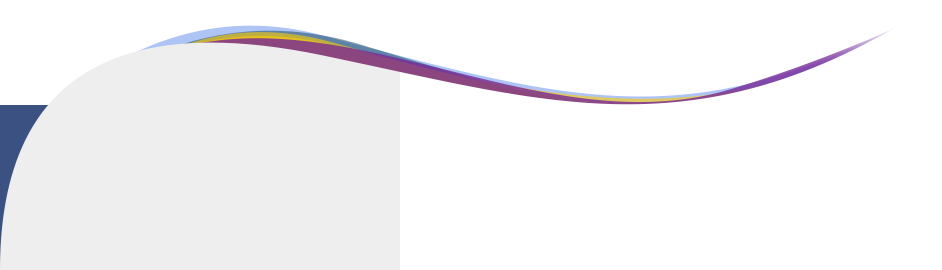
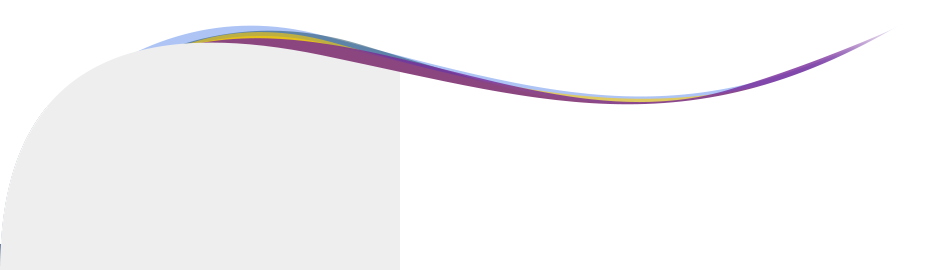
Pequenas alteracoes home

Changed region(s): [[0.0, 0.3852, 0.0616, 0.8296]]

diff --git a/styles/paginas.css b/styles/paginas.css
@@ -51,13 +51,16 @@ body[data-page="home"] #destaque-home .setas a.proximo {
 body[data-page="home"] main > .conteudo {
 	float: left;
 	clear: both;
+	margin-top: 0;
 }
 
 body[data-page="home"] main > .conteudo:before {
-	width: 942px;
+/*	width: 942px;
 	height: 270px;
 	background: url(../images/bkg/curva_topo_home.png) no-repeat;
-	top: -105px;
+	top: -105px;*/
+	background: none;
+	margin-top: 0;
 }
 
 body[data-page="home"] main > .conteudo > section,
@@ -70,6 +73,40 @@ body[data-page="home"] main > .conteudo > section {
 	padding: 0 20px;
 	float: left;
 	background: url(../images/bkg/curva_cinza.jpg) no-repeat left top #EEE;
+}
+
+body[data-page="home"] main > .conteudo > section .destaque {
+	margin-bottom: 20px;
+}
+
+body[data-page="home"] main > .conteudo > section .destaque h2 {
+	font-size: 30px;
+	color: #1f6385;
+}
+
+body[data-page="home"] main > .conteudo > section .destaque .thumb {
+	width: 355px;
+	height: 225px;
+	overflow: hidden;
+	position: relative;
+	border: 2px solid #FFF;
+
+	-webkit-box-shadow: 0 0 2px #666;
+	-moz-box-shadow: 0 0 2px #666;
+	box-shadow: 0 0 2px #666;
+}
+
+body[data-page="home"] main > .conteudo > section .destaque .thumb .botao_a {
+	right: 13px;
+	bottom: 5px;
+	position: absolute;
+	border: 2px solid #855d16;
+}
+
+body[data-page="home"] main > .conteudo > section .destaque p {
+	font-size: 20px;
+	color: #4e4e4e;
+	font-family: 'Futura';
 }
 
 body[data-page="home"] main > .conteudo > aside {

diff --git a/styles/comum.css b/styles/comum.css
@@ -261,9 +261,13 @@ h1, h2, h3, h4, h5, h6 {
 	border-bottom: 1px solid #DEDEDE;
 }
 
+#abas-topicos > nav li a:hover {
+	text-decoration: none;
+}
+
 #abas-topicos > nav li a.ativo {
-	background: #FFF;
 	border-bottom: 1px solid #FFF;
+	background: #FFF;
 }
 
 #abas-topicos > article {
